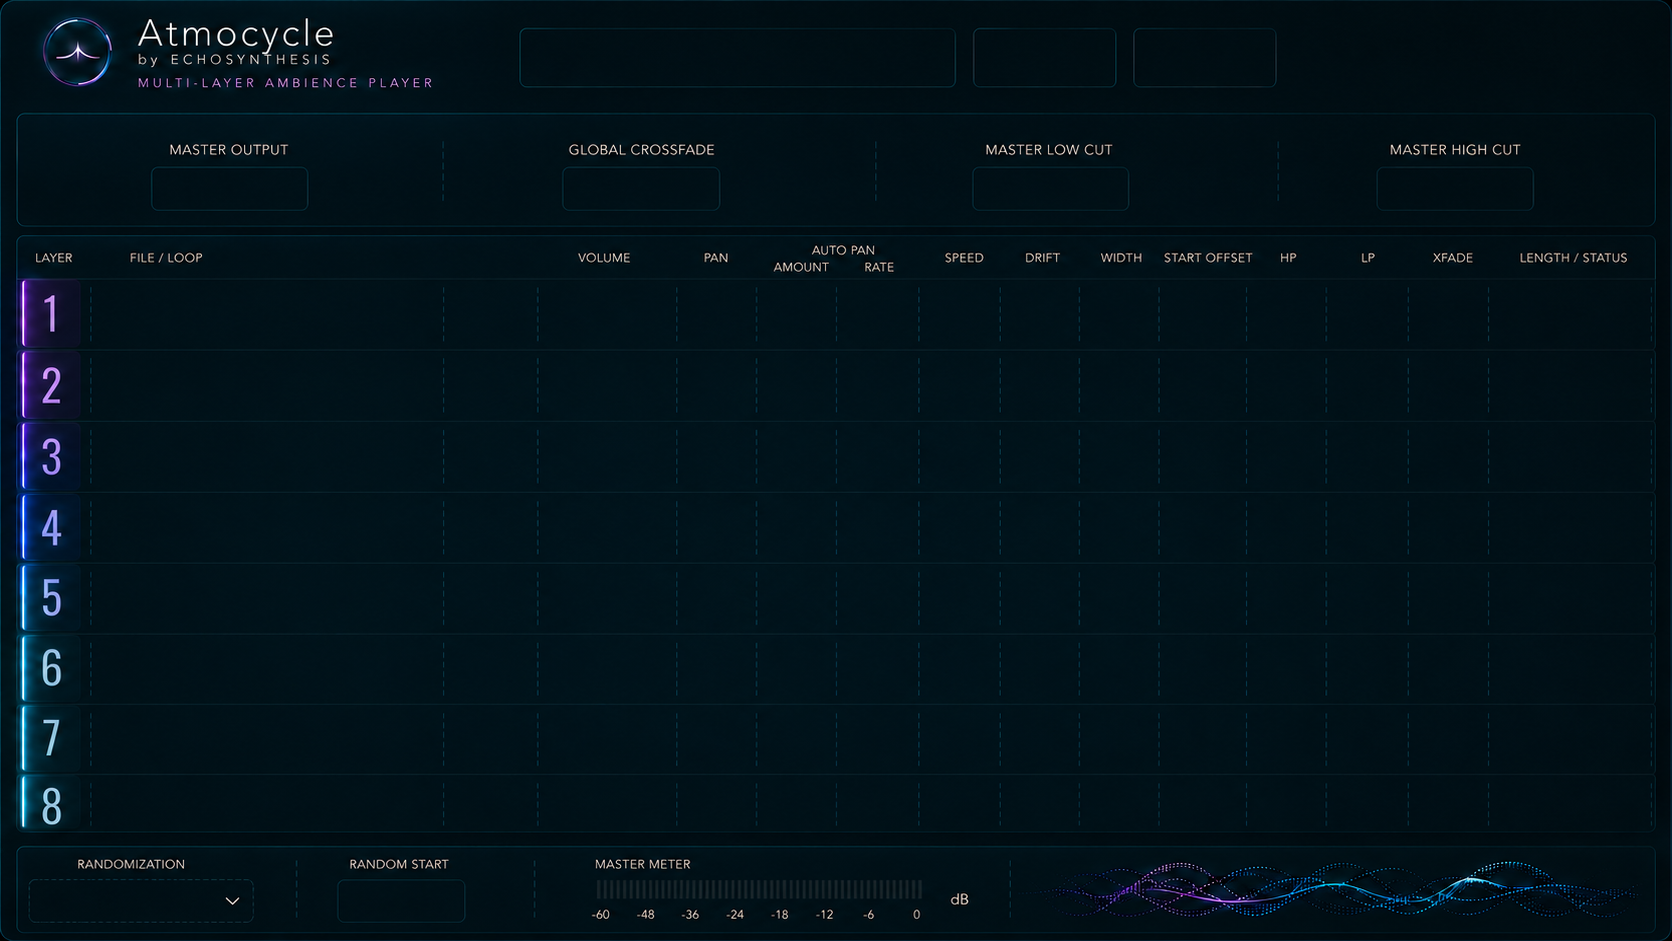
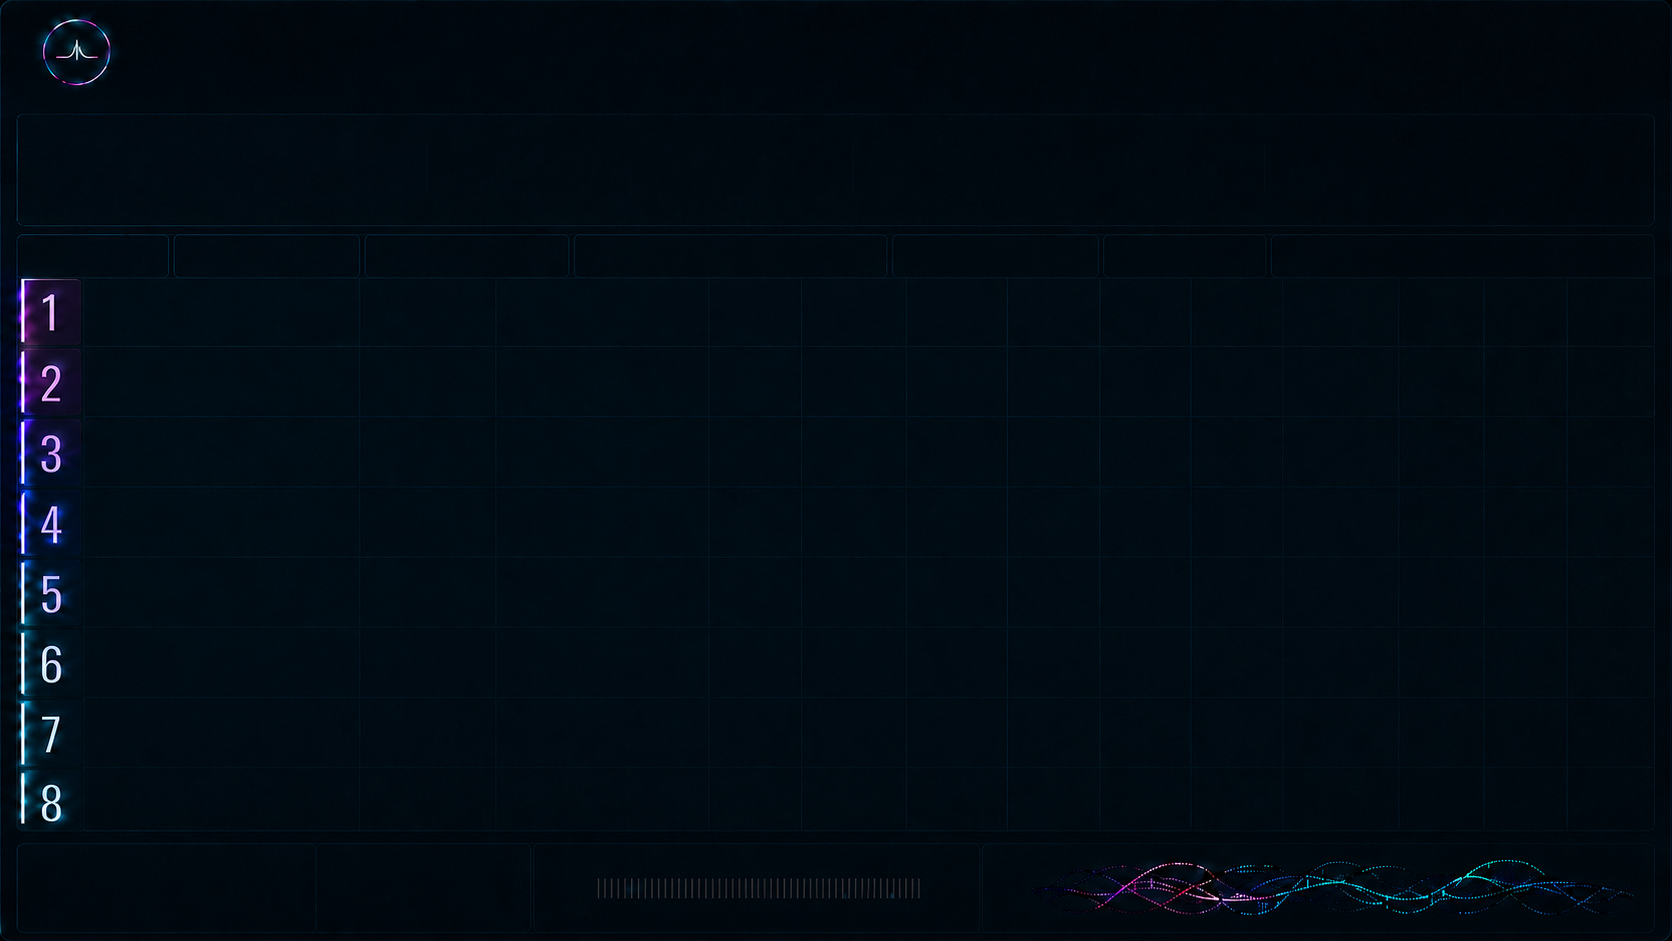
Apply clean background and warm UI labels

diff --git a/Source/PluginEditor.cpp b/Source/PluginEditor.cpp
@@ -17,6 +17,8 @@ const juce::Colour blue { 0xff2b61d6 };
 const juce::Colour purple { 0xff8e45ee };
 const juce::Colour text { 0xffd9d8ce };
 const juce::Colour mutedText { 0xffaeb6ad };
+const juce::Colour labelText { 0xffb3a69e };
+const juce::Colour valueText { 0xffbeb1a8 };
 
 constexpr int designWidth = 1672;
 constexpr int designHeight = 941;
@@ -233,8 +235,8 @@ void drawTopButtonContent(juce::Graphics& g, juce::Rectangle<int> bounds, const 
     else
         drawFolderIcon(g, icon, accent);
 
-    g.setColour(Theme::text.withAlpha(highlighted ? 0.92f : 0.82f));
-    g.setFont(juce::Font(scaledFont(14.2f), juce::Font::plain));
+    g.setColour(Theme::labelText.withAlpha(highlighted ? 0.96f : 0.84f));
+    g.setFont(juce::Font("Avenir Next", scaledFont(14.2f), juce::Font::plain));
     g.drawFittedText(text, bounds.withTrimmedLeft(scaledX(50)).reduced(scaledX(4), 0),
                      juce::Justification::centredLeft, 1);
 }
@@ -242,9 +244,58 @@ void drawTopButtonContent(juce::Graphics& g, juce::Rectangle<int> bounds, const 
 void drawTextValue(juce::Graphics& g, juce::Rectangle<int> bounds, const juce::String& text,
                    float fontSize = 14.0f, juce::Justification justification = juce::Justification::centredLeft)
 {
-    g.setColour(Theme::text.withAlpha(0.90f));
-    g.setFont(juce::Font(fontSize, juce::Font::plain));
+    g.setColour(Theme::valueText.withAlpha(0.92f));
+    g.setFont(juce::Font("Avenir Next", fontSize, juce::Font::plain));
     g.drawFittedText(text, bounds.reduced(6, 0), justification, 1);
+}
+
+float trackedTextWidth(const juce::Font& font, const juce::String& text, float tracking)
+{
+    float width = 0.0f;
+    for (int i = 0; i < text.length(); ++i)
+        width += font.getStringWidthFloat(text.substring(i, i + 1));
+
+    return width + juce::jmax(0, text.length() - 1) * tracking;
+}
+
+void drawTrackedText(juce::Graphics& g, juce::Rectangle<float> bounds, const juce::String& text,
+                     float fontSize, juce::Justification justification = juce::Justification::centred,
+                     float tracking = 1.2f, juce::Colour colour = Theme::labelText, bool shadow = true)
+{
+    auto font = juce::Font("Avenir Next", fontSize, juce::Font::plain);
+    const auto textWidth = trackedTextWidth(font, text, tracking);
+    auto x = bounds.getX();
+
+    if (justification.testFlags(juce::Justification::horizontallyCentred))
+        x = bounds.getCentreX() - textWidth * 0.5f;
+    else if (justification.testFlags(juce::Justification::right))
+        x = bounds.getRight() - textWidth;
+
+    const auto y = bounds.getCentreY() - font.getHeight() * 0.5f;
+    auto draw = [&] (juce::Colour c, float dx, float dy)
+    {
+        g.setColour(c);
+        g.setFont(font);
+        auto cx = x + dx;
+        for (int i = 0; i < text.length(); ++i)
+        {
+            const auto ch = text.substring(i, i + 1);
+            g.drawSingleLineText(ch, (int) std::round(cx), (int) std::round(y + dy + font.getAscent()));
+            cx += font.getStringWidthFloat(ch) + tracking;
+        }
+    };
+
+    if (shadow)
+        draw(juce::Colours::black.withAlpha(0.32f), 0.0f, 1.0f);
+
+    draw(colour, 0.0f, 0.0f);
+}
+
+void drawUiLabel(juce::Graphics& g, juce::Rectangle<float> bounds, const juce::String& text,
+                 float fontSize = scaledFont(11.5f), juce::Justification justification = juce::Justification::centred,
+                 float tracking = scaledX(1.05f))
+{
+    drawTrackedText(g, bounds, text, fontSize, justification, tracking, Theme::labelText.withAlpha(0.96f), true);
 }
 
 juce::String sliderValueText(juce::Slider& slider)
@@ -306,11 +357,11 @@ public:
         const auto displayPos = juce::jlimit(0.0f, 1.0f, invertGlow ? 1.0f - sliderPos : sliderPos);
         const auto glow = displayPos;
 
-        const auto innerGlow = 1.6f + glow * 1.2f;
-        const auto outerGlow = 2.4f + glow * 0.8f;
-        g.setColour(accent.withAlpha(0.12f + glow * 0.20f));
+        const auto innerGlow = 0.8f + glow * 0.45f;
+        const auto outerGlow = 1.4f + glow * 0.35f;
+        g.setColour(accent.withAlpha(0.035f + glow * 0.045f));
         g.fillEllipse(r.expanded(innerGlow));
-        g.setColour(accent.withAlpha(0.04f + glow * 0.09f));
+        g.setColour(accent.withAlpha(0.012f + glow * 0.025f));
         g.fillEllipse(r.expanded(outerGlow));
 
         g.setColour(juce::Colours::black.withAlpha(0.58f));
@@ -325,7 +376,7 @@ public:
         g.setColour(juce::Colours::white.withAlpha(0.10f));
         g.fillEllipse(r.reduced(radius * 0.24f).withTrimmedBottom(radius * 0.55f).translated(-radius * 0.10f, -radius * 0.10f));
 
-        g.setColour(accent.withAlpha(0.38f + glow * 0.34f));
+        g.setColour(accent.withAlpha(0.12f + glow * 0.12f));
         g.drawEllipse(r.expanded(1.4f), 1.0f);
         g.setColour(Theme::stroke.withAlpha(0.48f));
         g.drawEllipse(r, 0.8f);
@@ -340,10 +391,10 @@ public:
         juce::Path value;
         value.addCentredArc(centre.x, centre.y, radius - 3.4f, radius - 3.4f, 0.0f,
                             rotaryStartAngle, rotaryStartAngle + displayPos * (rotaryEndAngle - rotaryStartAngle), true);
-        g.setColour(accent.withAlpha(0.11f + glow * 0.14f));
-        g.strokePath(value, juce::PathStrokeType(7.0f + glow * 2.0f, juce::PathStrokeType::curved, juce::PathStrokeType::rounded));
-        g.setColour(accent.withAlpha(0.68f + glow * 0.24f));
-        g.strokePath(value, juce::PathStrokeType(2.4f + glow * 0.6f, juce::PathStrokeType::curved, juce::PathStrokeType::rounded));
+        g.setColour(accent.withAlpha(0.035f + glow * 0.055f));
+        g.strokePath(value, juce::PathStrokeType(4.5f + glow * 0.8f, juce::PathStrokeType::curved, juce::PathStrokeType::rounded));
+        g.setColour(accent.withAlpha(0.32f + glow * 0.22f));
+        g.strokePath(value, juce::PathStrokeType(1.7f + glow * 0.3f, juce::PathStrokeType::curved, juce::PathStrokeType::rounded));
 
         const auto indicator = centre + juce::Point<float>(std::cos(angle - juce::MathConstants<float>::halfPi),
                                                            std::sin(angle - juce::MathConstants<float>::halfPi)) * (radius - 9.0f);
@@ -794,6 +845,14 @@ void SceneLooperAudioProcessorEditor::paint(juce::Graphics& g)
 
 void SceneLooperAudioProcessorEditor::paintOverChildren(juce::Graphics& g)
 {
+    drawTrackedText(g, scaledBoundsF(132.0f, 18.0f, 300.0f, 35.0f), "Atmocycle", scaledFont(30.0f),
+                    juce::Justification::centredLeft, scaledX(1.6f), juce::Colour(0xffddd7cf), true);
+    drawTrackedText(g, scaledBoundsF(132.0f, 50.0f, 220.0f, 18.0f), "by Echosynthesis", scaledFont(11.0f),
+                    juce::Justification::centredLeft, scaledX(1.9f), Theme::labelText.withAlpha(0.86f), true);
+    drawTrackedText(g, scaledBoundsF(132.0f, 75.0f, 305.0f, 18.0f), "MULTI-LAYER AMBIENCE PLAYER", scaledFont(10.6f),
+                    juce::Justification::centredLeft, scaledX(2.0f), Theme::purple.withAlpha(0.88f), true);
+
+    drawUiLabel(g, scaledBoundsF(728.0f, 13.0f, 70.0f, 17.0f), "SCENE", scaledFont(10.0f));
     drawTopButtonContent(g, scaledBounds(986.0f, 31.0f, 128.0f, 53.0f), "LOAD SCENE", false, loadSceneButton.isMouseOver());
     drawTopButtonContent(g, scaledBounds(1147.0f, 31.0f, 128.0f, 53.0f), "SAVE SCENE", true, saveSceneButton.isMouseOver());
 
@@ -801,9 +860,31 @@ void SceneLooperAudioProcessorEditor::paintOverChildren(juce::Graphics& g)
                                ? juce::String("Project State")
                                : processor.getCurrentSceneName();
 
-    g.setColour(Theme::text.withAlpha(0.86f));
-    g.setFont(juce::Font(scaledFont(15.8f), juce::Font::plain));
+    g.setColour(Theme::valueText.withAlpha(0.90f));
+    g.setFont(juce::Font("Avenir Next", scaledFont(15.0f), juce::Font::plain));
     g.drawFittedText(sceneName, sceneNameLabel.getBounds(), juce::Justification::centred, 1);
+
+    drawUiLabel(g, scaledBoundsF(160.0f, 139.0f, 170.0f, 20.0f), "MASTER OUTPUT", scaledFont(12.0f), juce::Justification::centredLeft);
+    drawUiLabel(g, scaledBoundsF(568.0f, 139.0f, 185.0f, 20.0f), "GLOBAL CROSSFADE", scaledFont(12.0f), juce::Justification::centredLeft);
+    drawUiLabel(g, scaledBoundsF(972.0f, 139.0f, 175.0f, 20.0f), "MASTER LOW CUT", scaledFont(12.0f), juce::Justification::centredLeft);
+    drawUiLabel(g, scaledBoundsF(1390.0f, 139.0f, 185.0f, 20.0f), "MASTER HIGH CUT", scaledFont(12.0f), juce::Justification::centredLeft);
+
+    drawUiLabel(g, scaledBoundsF(31.0f, 246.0f, 65.0f, 20.0f), "LAYER", scaledFont(10.5f), juce::Justification::centredLeft);
+    drawUiLabel(g, scaledBoundsF(128.0f, 246.0f, 170.0f, 20.0f), "FILE / LOOP", scaledFont(10.5f), juce::Justification::centredLeft);
+    drawUiLabel(g, scaledBoundsF(395.0f, 246.0f, 100.0f, 20.0f), "CONTROL", scaledFont(10.5f), juce::Justification::centred);
+    drawUiLabel(g, scaledBoundsF(580.0f, 246.0f, 80.0f, 20.0f), "VOLUME", scaledFont(10.5f), juce::Justification::centred);
+    drawUiLabel(g, scaledBoundsF(716.0f, 246.0f, 60.0f, 20.0f), "PAN", scaledFont(10.5f), juce::Justification::centred);
+    drawUiLabel(g, scaledBoundsF(815.0f, 238.0f, 90.0f, 15.0f), "AUTO PAN", scaledFont(10.0f), juce::Justification::centred);
+    drawUiLabel(g, scaledBoundsF(815.0f, 253.0f, 90.0f, 15.0f), "AMOUNT", scaledFont(10.0f), juce::Justification::centred);
+    drawUiLabel(g, scaledBoundsF(918.0f, 238.0f, 85.0f, 15.0f), "AUTO PAN", scaledFont(10.0f), juce::Justification::centred);
+    drawUiLabel(g, scaledBoundsF(918.0f, 253.0f, 85.0f, 15.0f), "RATE", scaledFont(10.0f), juce::Justification::centred);
+    drawUiLabel(g, scaledBoundsF(1018.0f, 246.0f, 70.0f, 20.0f), "SPEED", scaledFont(10.5f), juce::Justification::centred);
+    drawUiLabel(g, scaledBoundsF(1112.0f, 246.0f, 65.0f, 20.0f), "DRIFT", scaledFont(10.5f), juce::Justification::centred);
+    drawUiLabel(g, scaledBoundsF(1205.0f, 246.0f, 70.0f, 20.0f), "WIDTH", scaledFont(10.5f), juce::Justification::centred);
+    drawUiLabel(g, scaledBoundsF(1297.0f, 246.0f, 110.0f, 20.0f), "START OFFSET", scaledFont(10.5f), juce::Justification::centred);
+    drawUiLabel(g, scaledBoundsF(1430.0f, 246.0f, 45.0f, 20.0f), "HP", scaledFont(10.5f), juce::Justification::centred);
+    drawUiLabel(g, scaledBoundsF(1510.0f, 246.0f, 45.0f, 20.0f), "LP", scaledFont(10.5f), juce::Justification::centred);
+    drawUiLabel(g, scaledBoundsF(1581.0f, 246.0f, 75.0f, 20.0f), "XFADE", scaledFont(10.5f), juce::Justification::centred);
 
     drawTextValue(g, scaledBounds(151, 167, 157, 43), sliderValueText(masterSlider), scaledFont(15.2f), juce::Justification::centredLeft);
     drawTextValue(g, scaledBounds(563, 167, 157, 43), sliderValueText(globalXFadeSlider), scaledFont(15.2f), juce::Justification::centredLeft);
@@ -812,6 +893,10 @@ void SceneLooperAudioProcessorEditor::paintOverChildren(juce::Graphics& g)
 
     const auto randomSlot = scaledBounds(29, 879, 225, 43);
     drawDiceIcon(g, randomSlot.toFloat().withTrimmedLeft(scaledX(25)).withTrimmedRight(scaledX(160)).reduced(0.0f, scaledY(5.0f)));
+
+    drawUiLabel(g, scaledBoundsF(77.0f, 855.0f, 170.0f, 20.0f), "RANDOMIZATION", scaledFont(10.4f), juce::Justification::centredLeft);
+    drawUiLabel(g, scaledBoundsF(350.0f, 855.0f, 135.0f, 20.0f), "RANDOM START", scaledFont(10.4f), juce::Justification::centredLeft);
+    drawUiLabel(g, scaledBoundsF(596.0f, 855.0f, 150.0f, 20.0f), "MASTER METER", scaledFont(10.4f), juce::Justification::centredLeft);
 
     drawTextValue(g, scaledBounds(337, 879, 127, 43), sliderValueText(randomStartSlider), scaledFont(13.8f), juce::Justification::centred);
 
@@ -838,6 +923,14 @@ void SceneLooperAudioProcessorEditor::paintOverChildren(juce::Graphics& g)
     drawMeterRow(masterRight, ledArea.getY() + scaledY(12.0f), scaledY(7.0f));
 
     drawTextValue(g, scaledBounds(536, 883, 58, 26), levelToDbText(juce::jmax(masterLeft, masterRight)), scaledFont(12.5f), juce::Justification::centredRight);
+    drawUiLabel(g, scaledBoundsF(593.0f, 909.0f, 34.0f, 15.0f), "-60", scaledFont(9.2f));
+    drawUiLabel(g, scaledBoundsF(644.0f, 909.0f, 34.0f, 15.0f), "-48", scaledFont(9.2f));
+    drawUiLabel(g, scaledBoundsF(695.0f, 909.0f, 34.0f, 15.0f), "-36", scaledFont(9.2f));
+    drawUiLabel(g, scaledBoundsF(746.0f, 909.0f, 34.0f, 15.0f), "-24", scaledFont(9.2f));
+    drawUiLabel(g, scaledBoundsF(797.0f, 909.0f, 34.0f, 15.0f), "-18", scaledFont(9.2f));
+    drawUiLabel(g, scaledBoundsF(848.0f, 909.0f, 34.0f, 15.0f), "-12", scaledFont(9.2f));
+    drawUiLabel(g, scaledBoundsF(899.0f, 909.0f, 34.0f, 15.0f), "-6", scaledFont(9.2f));
+    drawUiLabel(g, scaledBoundsF(915.0f, 887.0f, 70.0f, 25.0f), "dB", scaledFont(12.4f), juce::Justification::centredRight);
 }
 
 void SceneLooperAudioProcessorEditor::resized()
@@ -1006,9 +1099,9 @@ SceneLooperAudioProcessorEditor::LayerRow::LayerRow(SceneLooperAudioProcessor& p
     loadButton.setButtonText("Load");
     loadButton.setTooltip("Load WAV: choose an audio file for this layer.");
     fileLabel.setText(processor.getFileNameForLayer(layerIndex), juce::dontSendNotification);
-    fileLabel.setColour(juce::Label::textColourId, Theme::text.withAlpha(0.82f));
+    fileLabel.setColour(juce::Label::textColourId, Theme::valueText.withAlpha(0.86f));
     fileLabel.setJustificationType(juce::Justification::centredLeft);
-    fileLabel.setFont(juce::Font(9.6f, juce::Font::plain));
+    fileLabel.setFont(juce::Font("Avenir Next", 9.6f, juce::Font::plain));
     addAndMakeVisible(fileLabel);
     addAndMakeVisible(waveformPreview);
 
@@ -1188,8 +1281,8 @@ void SceneLooperAudioProcessorEditor::LayerRow::paintOverChildren(juce::Graphics
     {
         auto value = slider.getBounds().withSizeKeepingCentre(scaledX(width), scaledY(17));
         value.setY(slider.getBottom() + scaledY(2));
-        g.setColour(Theme::mutedText.withAlpha(0.88f));
-        g.setFont(juce::Font(scaledFont(10.4f), juce::Font::plain));
+        g.setColour(Theme::valueText.withAlpha(0.88f));
+        g.setFont(juce::Font("Avenir Next", scaledFont(10.2f), juce::Font::plain));
         g.drawFittedText(sliderValueText(slider), value, juce::Justification::centred, 1);
     };
 
@@ -1208,8 +1301,8 @@ void SceneLooperAudioProcessorEditor::LayerRow::paintOverChildren(juce::Graphics
     drawControlValue(lpSlider, 52);
     drawControlValue(xfadeSlider, 54);
 
-    g.setColour(Theme::mutedText.withAlpha(0.88f));
-    g.setFont(juce::Font(scaledFont(10.4f), juce::Font::plain));
+    g.setColour(Theme::valueText.withAlpha(0.82f));
+    g.setFont(juce::Font("Avenir Next", scaledFont(9.6f), juce::Font::plain));
     g.drawFittedText(lengthLabel.getText(), scaledBounds(308, 10, 62, 18),
                      juce::Justification::centredRight, 1);
 
@@ -1240,7 +1333,7 @@ void SceneLooperAudioProcessorEditor::LayerRow::resized()
     numberLabel.setBounds(scaledBounds(0, 0, 60, 70));
 
     fileLabel.setBounds(scaledBounds(110, 10, 196, 18));
-    waveformPreview.setBounds(scaledBounds(92, 25, 360, 36));
+    waveformPreview.setBounds(scaledBounds(92, 25, 328, 36));
     loadButton.setBounds(scaledBounds(374, 10, 64, 26));
 
     onButton.setBounds(scaledBounds(452, 19, 28, 28));
@@ -1255,16 +1348,16 @@ void SceneLooperAudioProcessorEditor::LayerRow::resized()
                          scaledX(size), scaledY(size));
     };
 
-    placeKnob(panSlider, 700, 34);
-    placeKnob(autoPanAmountSlider, 782, 34);
-    placeKnob(autoPanRateSlider, 862, 34);
-    placeKnob(speedSlider, 949, 34);
-    placeKnob(driftSlider, 1025, 34);
-    placeKnob(widthSlider, 1105, 34);
-    placeKnob(offsetSlider, 1190, 34);
-    placeKnob(hpSlider, 1270, 34);
-    placeKnob(lpSlider, 1350, 34);
-    placeKnob(xfadeSlider, 1430, 34);
+    placeKnob(panSlider, 724, 34);
+    placeKnob(autoPanAmountSlider, 838, 34);
+    placeKnob(autoPanRateSlider, 940, 34);
+    placeKnob(speedSlider, 1026, 34);
+    placeKnob(driftSlider, 1126, 34);
+    placeKnob(widthSlider, 1218, 34);
+    placeKnob(offsetSlider, 1332, 34);
+    placeKnob(hpSlider, 1428, 34);
+    placeKnob(lpSlider, 1508, 34);
+    placeKnob(xfadeSlider, 1592, 34);
 
     lengthLabel.setBounds(scaledBounds(1502, 17, 116, 18));
     remainLabel.setBounds(scaledBounds(1502, 34, 116, 18));
